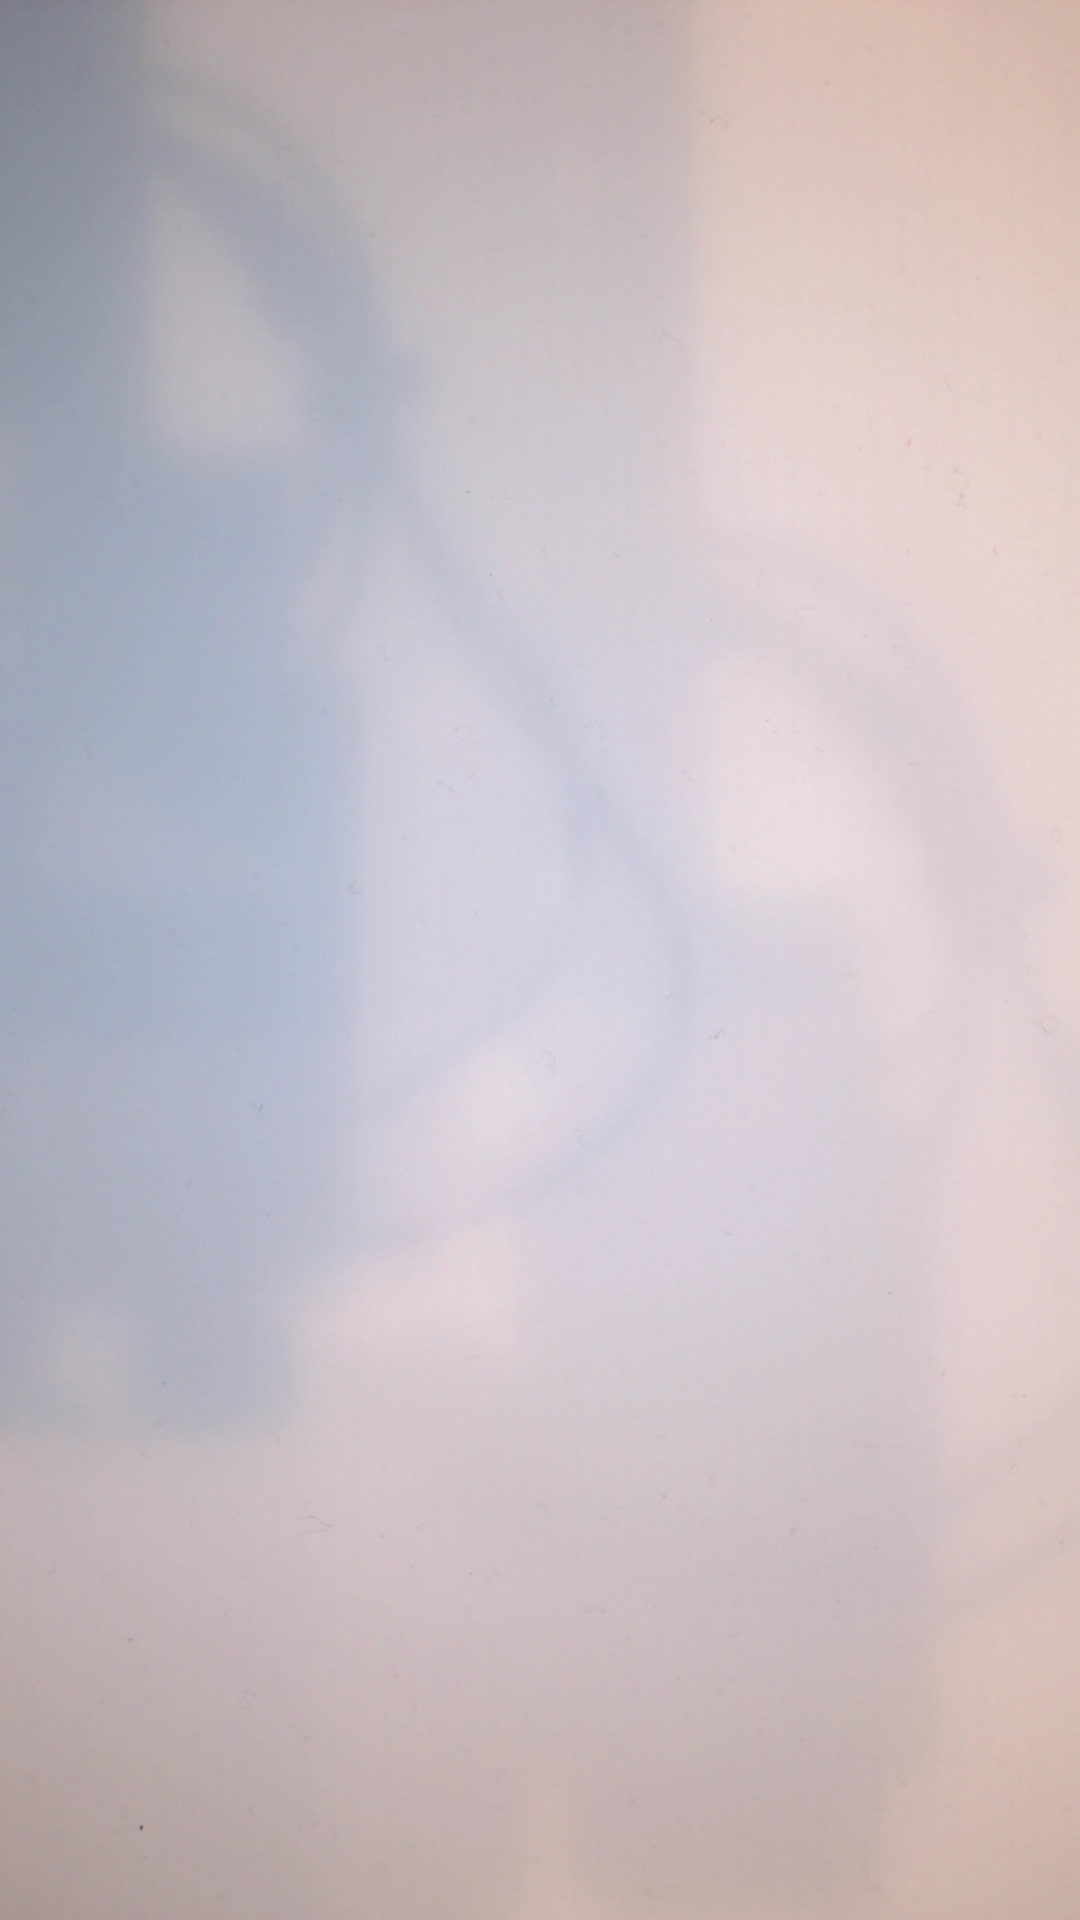
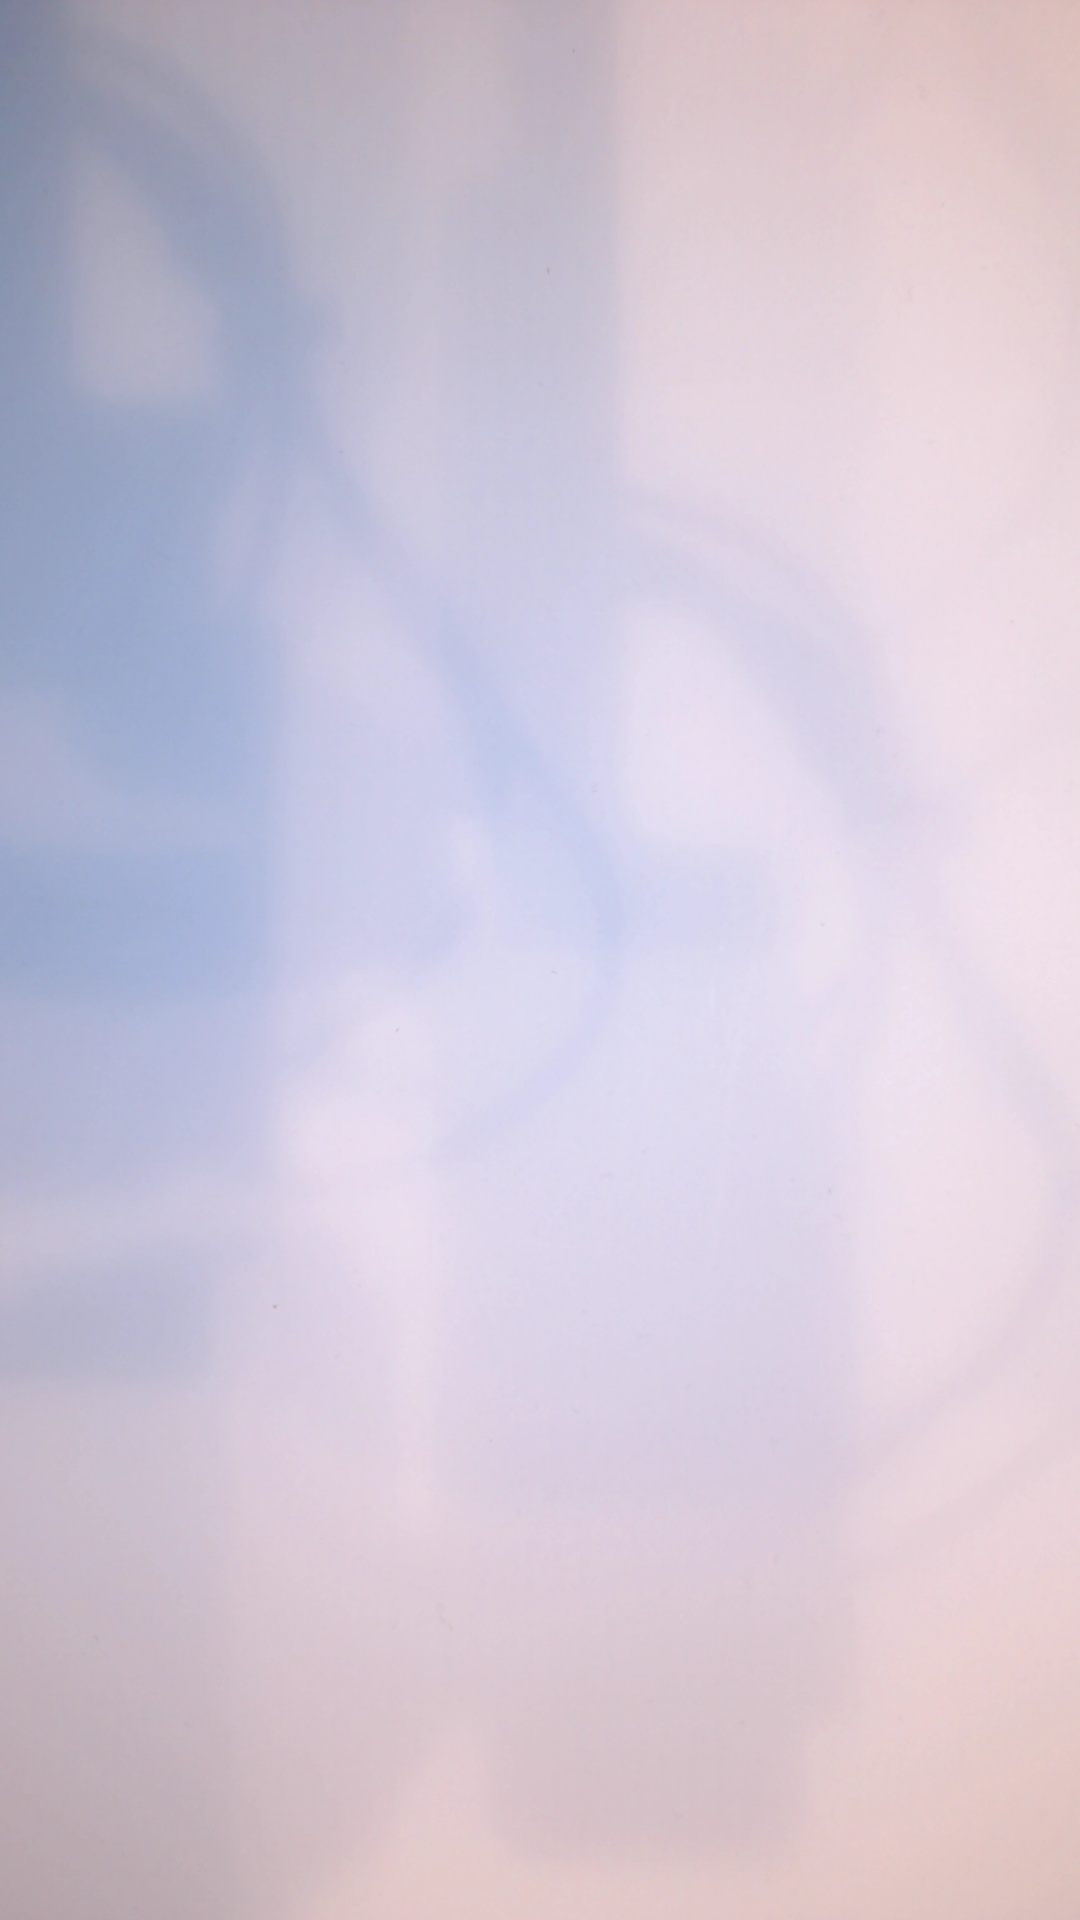
Adjusted WB, new empty pic

diff --git a/brain/config.py b/brain/config.py
@@ -18,7 +18,7 @@ class Camera(object):
         'white_balance_temperature_auto': 0,
         'gain': 0,
         'power_line_frequency': 1,   # 50 Hz
-        'white_balance_temperature': 5000,  # TODO: check
+        'white_balance_temperature': 4500,  # TODO: check
         'sharpness': 128,
         'backlight_compensation': 0,
         'exposure_auto': 1,   # TODO: check
